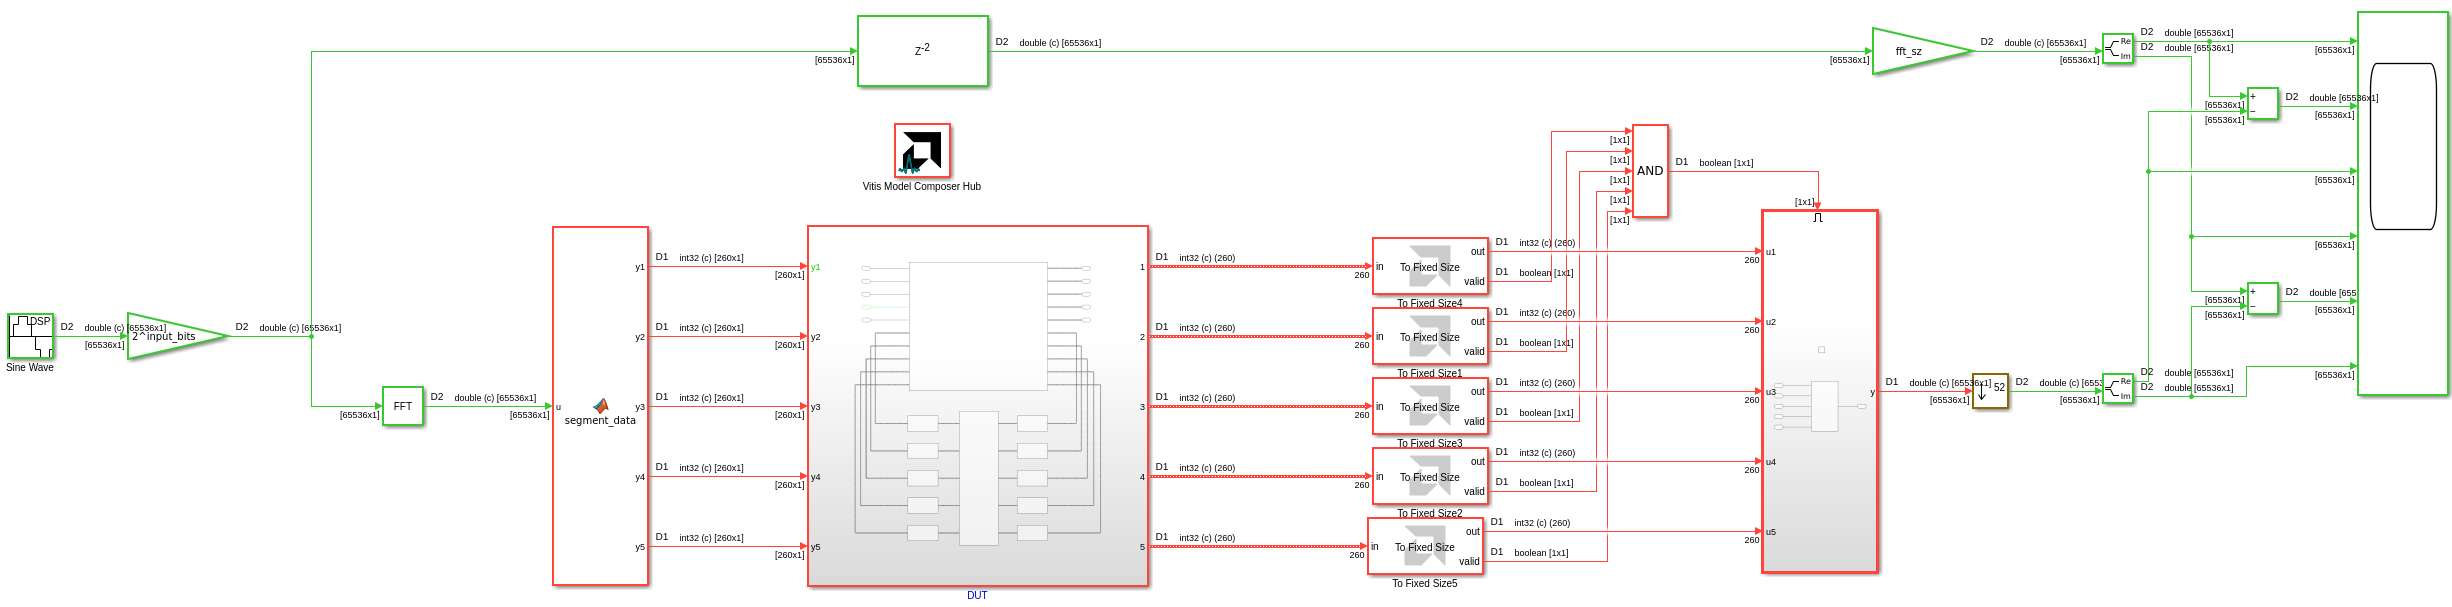
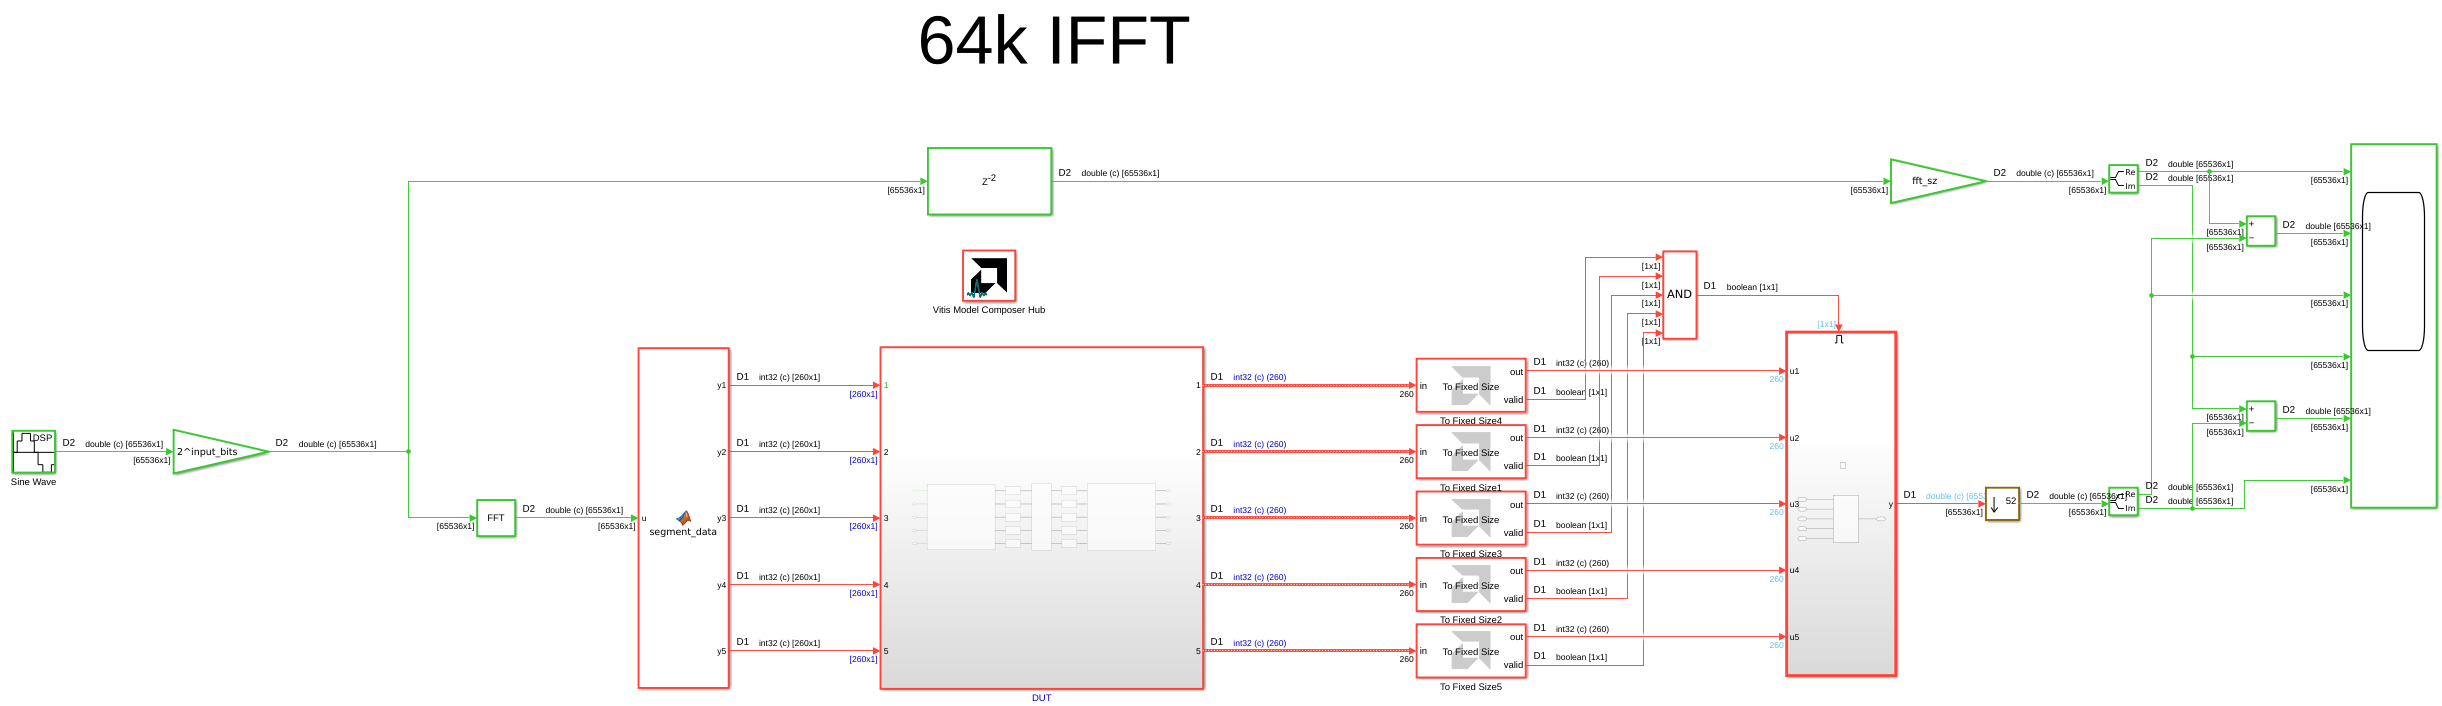
Update 2D IFFT to 2025.1 (combined AIE subsystem)

diff --git a/Examples/AIENGINE_plus_PL/AIE_HLS/IFFT64K_2D/README.html b/Examples/AIENGINE_plus_PL/AIE_HLS/IFFT64K_2D/README.html
@@ -25,7 +25,7 @@ document.location=commandURI
               
 </html>
 <p>This example demonstrates a 2D architecture to implement large point transforms in the SSR &gt; 1 regime: specifically a 64K-pt IFFT @ 2 Gsps.</p>
-<p><strong><em>Version: Vitis Model Composer 2024.2</em></strong></p>
+<p><strong><em>Version: Vitis Model Composer 2025.1</em></strong></p>
 <h2 id="introduction">Introduction</h2>
 <p>The <a href="https://docs.xilinx.com/r/en-US/Vitis_Libraries/dsp/index.html">Vitis DSP Library</a> currently implements the Fast Fourier Transform (FFT) using a Stockham algorithm. This algorithm computes the transform using a pair of buffers rather than the more popular in-place Cooley-Tukey approach, and maps more efficiently to the vector/SIMD architecture of the AI Engine. This approach yields excellent results, particularly for <code>N &lt; 4096</code> where the processing and storage requirements may be serviced by a single tile. In higher performance cases where sampling rates exceed 1 Gsps (ie. the SSR &gt; 1 regime), this Stockham approach continues to be feasible but leads to an excessive use of tile resources. A more efficient approach is needed for these high throughput use cases. </p>
 <p>A 1D FFT may be implemented on the AI Engine array using a 2D FFT algorithm with higher efficiency overall. This alternative "divide &amp; conquer" approach provides a better solution on the AI Engine array since it is less reliant on "butterfly routing" and we can break large <code>N</code> point sizes into much smaller factors of size <code>sqrt(N)</code>. This results in a significant reduction in AI Engine tile memory and overall usage of fewer compute tiles. </p>
@@ -48,7 +48,7 @@ document.location=commandURI
 <p>[1]: <a href="https://docs.xilinx.com/r/en-US/Vitis_Libraries/dsp/index.html">Vitis DSP Library</a></p>
 <p>[2]: <a href="https://docs.xilinx.com/r/en-US/xapp1356-fft-ai-engine">XAPP1356 Block-by-Block Configurable Fast Fourier Transform Implementation on AI Engine</a></p>
 <hr />
-<p>Copyright (c) 2024 Advanced Micro Devices, Inc.</p>
+<p>Copyright (c) 2025 Advanced Micro Devices, Inc.</p>
 
 </div>
 <style type='text/css'>body {

diff --git a/Examples/AIENGINE_plus_PL/AIE_HLS/IFFT64K_2D/README.md b/Examples/AIENGINE_plus_PL/AIE_HLS/IFFT64K_2D/README.md
@@ -2,7 +2,7 @@
 
 This example demonstrates a 2D architecture to implement large point transforms in the SSR > 1 regime: specifically a 64K-pt IFFT @ 2 Gsps.
 
-***Version: Vitis Model Composer 2024.2***
+***Version: Vitis Model Composer 2025.1***
 
 ## Introduction
 
@@ -48,4 +48,4 @@ When the model runs, the scope displays the real and imaginary output of the IFF
 
 ------------
 
-Copyright (c) 2024 Advanced Micro Devices, Inc.
+Copyright (c) 2025 Advanced Micro Devices, Inc.
